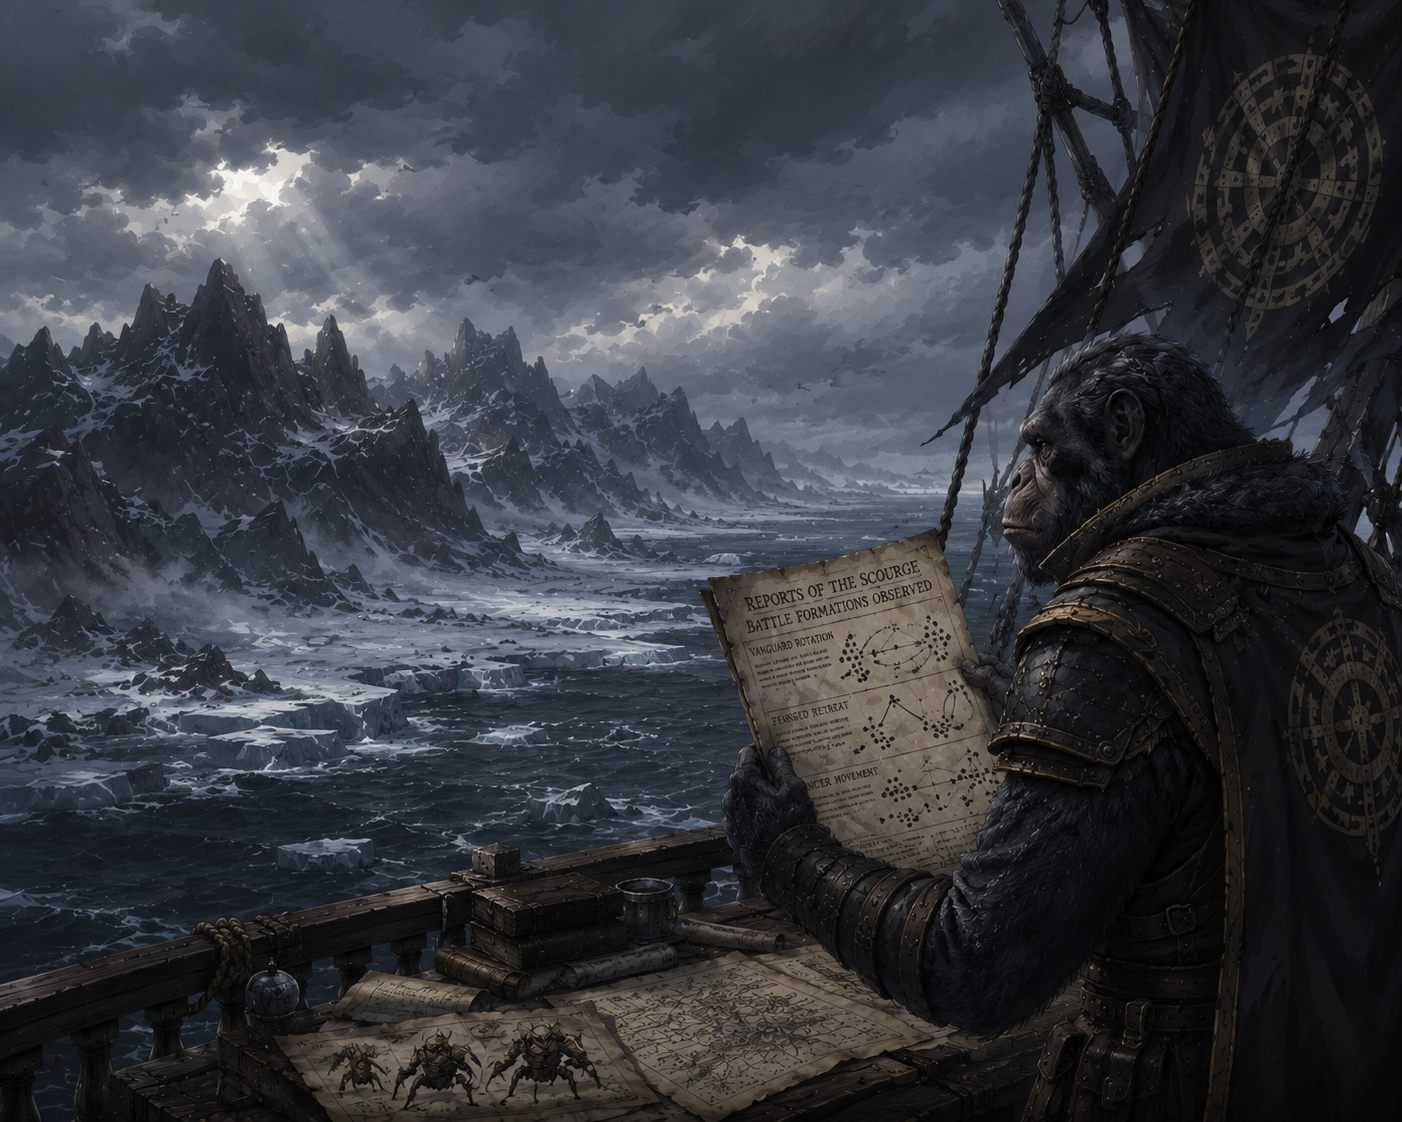
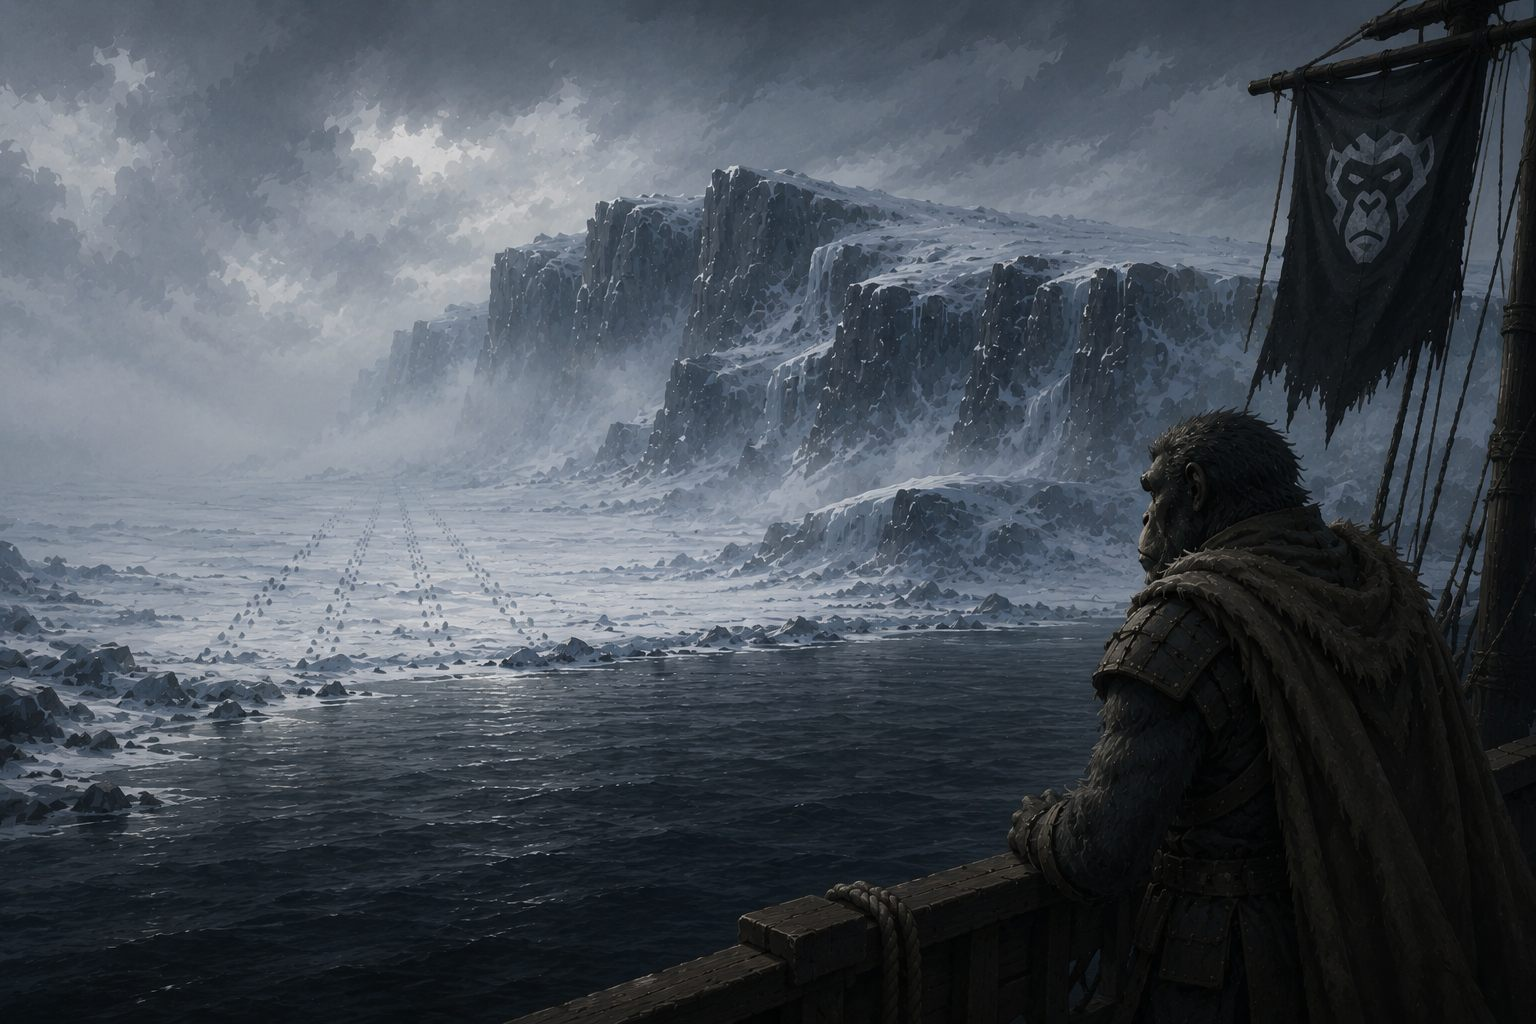
cohort I polished

diff --git a/content.js b/content.js
@@ -500,19 +500,25 @@ window.CONTENT = {
           code: "1.1",
           name: "Golden Empire",
           image: "images/factions/ge1.jpg",
-          epithet: "No caravan crosses the Garden without passing beneath a lion's shadow.",
+          epithet: "Every luxury in the Garden eventually finds its way to a lion's court.",
           meta: [
             ["KIND", "Feline (Lions)"],
             ["CREED", "Zaoist Founders"],
             ["TRAIT", "Deep social bonds; collective state strategy"]
           ],
-          paragraphs: [
-            { lead: true, text: "The Golden Empire sits at the heart of western civilization. It commands no single monopoly, yet quietly influences all three of the Garden's most valuable commodities: spice, silk, and venom. Lion kings rarely conquer for territory alone; they conquer for balance." },
-            "Their closest allies are the Celestial Empire, whose leopard merchants control many of the western trade routes, and Naga's Embrace, the serpent kingdom whose venom has become one of the most valuable substances in the Garden.",
-            "Centuries ago, relations between the Lions and the Lunar Guardians were cordial. That peace ended during the Serpent War, when the wolves launched a devastating campaign against Naga's Embrace. Victory would have handed the entire venom trade to the Lunar Guardians, upsetting the balance of power across the continent.",
-            "The Watcher's Dominions were too distant and too weakened to intervene. Mooncrest's armies could not reach the battlefield in time. The Lion Kings alone possessed both the strength and the political leverage to act. Invoking the gentle principles of Zaoism, the Golden Empire demanded an immediate ceasefire, declaring that the strong had a duty to protect the weak. Behind the noble words stood an unmistakable warning: should the war continue, the Lions themselves would march.",
-            "The wolves refused. What followed was a brutal four-year conflict remembered simply as <em>The Holy War of Protection</em>. Neither side emerged unscarred, but the Golden Empire ultimately prevailed.",
-            "Since then, Naga's Embrace has remained a loyal protectorate of the Lions, while the Golden Empire quietly safeguards the world's venom trade. To the east, the Celestial Empire remains both a trusted ally and an indispensable commercial partner, carrying spices from the Vanguards across the western kingdoms while together standing watch against their common rival: the Mooncrest Matriarchy."
+paragraphs: [
+            { lead: true, text: "The Golden Empire sits at the heart of western civilization. It commands no single monopoly, yet quietly influences all three of the Garden's most valuable commodities: spice, silk, and venom. Lion emperors rarely conquer for territory alone; they conquer for balance." },
+            "Their closest ally is the Celestial Empire, whose leopard merchants dominate many of the western trade routes. To the north lies Naga's Embrace, the great serpent kingdom whose venom has become one of the most valuable substances in the Garden. Though formally independent, the two realms have maintained unusually close relations for generations.",
+            "That relationship changed dramatically during the reign of Emperor Zaoren.",
+            "Only one Rain ago, the Emperor shocked the Garden by taking Lady Seshara, a noblewoman of Naga's Embrace, as his newest consort. The marriage ignited immediate controversy throughout the Empire. Marrying beyond one's creed is condemned across nearly every civilization, and Khamseen law traditionally demands that an outsider convert before such a union can be recognized. The imperial court refused to explain how the marriage had been sanctioned.",
+            "The Emperor's lion queens openly resented the decision. Noble houses questioned his judgment. Zaoist priests condemned the union in private sermons, while merchants feared the political instability it might invite. Although none dared challenge the Emperor directly, whispers spread throughout every province.",
+            "The rumors only intensified as Zaoren himself appeared to change. Courtiers spoke of an Emperor increasingly distant from affairs of state, arriving late to councils, staring silently through debates, and displaying an unfamiliar calm that many described as almost euphoric. No physician reported illness. No minister offered an explanation.",
+            "Then came the Wolf campaign against Naga's Embrace.",
+            "Invoking the sacred principles of Zaoism, Emperor Zaoren declared that the strong bore an absolute duty to protect the weak. He condemned the invasion as a violation of the natural balance and demanded an immediate withdrawal. When the Lunar Guardians refused, the Golden Empire marched to war.",
+            "The war endured four rains before Lion armies forced the wolves to retreat. Since then, Naga's Embrace has remained firmly within the Golden sphere of influence, preserving the world's venom trade while strengthening western commerce alongside the Celestial Empire.",
+            "Yet the war settled little beyond the battlefield.",
+            "Many across the Garden remain convinced that Emperor Zaoren secretly embraced Khamseen to legitimize his marriage. Others dismiss the accusation as Mooncrest propaganda intended to fracture the Zaoist world. The imperial court has never addressed the rumors, and the Emperor continues to preside over every Zaoist ceremony without exception.",
+            "Whether Zaoren's actions sprang from love, political calculation, religious conviction, or some combination of all three has become one of the Garden's greatest unanswered questions."
           ]
         },
         {
@@ -526,12 +532,15 @@ window.CONTENT = {
             ["CREED", "Zaoist Followers"],
             ["TRAIT", "Unbreakable pack discipline; flawless teamwork"]
           ],
-          paragraphs: [
-            { lead: true, text: "The Lunar Guardians occupy the harsh northwestern forests, far removed from the great merchant roads. Unlike the southern empires, they possess no vast spice fields, no silk workshops, and no lucrative caravan networks. Their strength has always been earned rather than inherited." },
-            "Every fortress, every village, and every victory has been built through relentless discipline, endurance, and an unwavering belief that no pack survives unless every member carries their burden.",
+           paragraphs: [
+            { lead: true, text: "The Lunar Guardians occupy the harsh northwestern forests, far removed from the great merchant roads. Unlike the southern empires, they possess no vast spice fields, no silk workshops, and no lucrative caravan networks. Their wealth comes instead from dense northern timber, rich iron deposits, fine furs, amber, and generations of disciplined craftsmanship. Every crate bound for the wealthy kingdoms of the south must first pass through Galeon Heights, whose harbors provide the Guardians their only reliable access to the Central Seas." },
+            "Every fortress, every village, and every victory has been built through relentless discipline, endurance, and an unwavering belief that no pack survives unless every member carries their burden. Among the wolves, rank carries privilege only because it carries greater responsibility. Nobles are expected to command, princes to serve, and every officer to lead from the front. A family name may earn respect, but only competence earns authority.",
+            "Their armies are regarded as the finest professional fighting force in the Garden. While other kingdoms celebrate heroic champions, the Guardians place their faith in drilled formations, disciplined logistics, engineering, battlefield signals, and an officer corps promoted through merit rather than birth. Individual glory means little beside collective victory.",
             "Their greatest humiliation remains the Serpent War. Generations have grown up believing victory was stolen from them, not by the Nagas they nearly defeated, but by Lion diplomacy backed with overwhelming military force. Restoring the honor lost in that war has quietly become a national obsession.",
-            "To the south lies their closest ally, Galeon Heights, whose mountain peoples rely upon the wolves to shield them from repeated incursions by the fanatical Ursa Theocracy. The Ursas themselves remain more nuisance than existential threat. Their borders are narrow, their campaigns reckless, and their charges rarely survive disciplined wolf formations. Nevertheless, constant vigilance has become second nature to the northern packs.",
-            "Every generation of wolves trains with one question lingering beneath the surface: <em>when the next great war comes... will the Lions still stand above us?</em>"
+            "To their south lie two very different neighbors. Naga's Embrace remains a bitter reminder of the Serpent War, while Galeon Heights stands as the Guardians' closest ally. Though small, the mountain kingdom controls the wolves' only dependable passage to the Central Seas. Protecting Galeon's mountain passes and ports is therefore more than an act of friendship—it is the lifeline of the northern economy.",
+            "Beyond Galeon, to the east, rises the fanatical Ursa Theocracy. The Ursas themselves remain more nuisance than existential threat. Their borders are narrow, their campaigns reckless, and their furious charges rarely survive disciplined wolf formations. Nevertheless, constant vigilance has become second nature to the northern packs.",
+            "Wolf courts are famously austere. Foreign ambassadors expecting gilded halls and extravagant feasts instead find plain timber chambers, quiet deliberation, and rulers who value restraint above spectacle. Displays of wealth are considered poor taste; unnecessary luxury is often viewed as evidence that one has forgotten the burdens carried by the pack.",
+            "Every cub is taught that the debt of the Serpent War has not been forgotten. Whether history is corrected through diplomacy, commerce, or conquest matters little. The Lions may possess the richer empire, but the Wolves remain convinced that the Garden has yet to witness their greatest victory."
           ]
         },
         {
@@ -945,22 +954,6 @@ window.CONTENT = {
           paragraphs: [
             { lead: true, text: "The colossal, sky-blotting locust swarms driving down the western corridor. They threaten to choke out the trade routes of the Steppe Guardians and devour the lush environments of the Giants Realm. They are met only by advanced, mass-barrage artillery and aerosolized contact poisons engineered to clog their breathing pores." }
           ]
-        },
-        {
-          slug: "silent-swarm",
-          code: "4.6",
-          name: "The Silent Swarm",
-          image: "images/factions/SilentSwarm1.jpg",
-          epithet: "The land is completely quiet, and it systematically consumes anyone who touches it.",
-          meta: [
-            ["KIND", "Unknown"],
-            ["CREED", "None Observed"],
-            ["TRAIT", "Total silence; no landing party has ever returned"]
-          ],
-          paragraphs: [
-            { lead: true, text: "Occupying the isolated, sub-polar landmass in the northwestern corner of the map, the Silent Swarm borders no living civilization. For generations, regional scholars dismissed this frozen, quiet expanse as a barren, dead territory. Maritime expeditions sent to map its rocky coastlines reported seeing absolutely no signs of life on the tundra—no cities, no hives, and no movement. Yet, a chilling rule has hardened among the regional navies: every single expedition that has ever dropped anchor and sent landing parties ashore has vanished without a single survivor or distress signal. The land is completely quiet, and it systematically consumes anyone who touches it." },
-            "For centuries, the Scourge fought as a mindless, disorganized wave of raw flesh and instinct. Recently, however, an unsettling rumor has begun whispering through the trench lines of the Eastern Frontier. A Khanstan Tiger lord managing an aerial watch and a Boarheart shield-commander holding a subterranean trench have separately reported an identical, chilling phenomenon: the incoming swarms are beginning to display basic battle formations. They no longer simply charge; they rotate vanguard units, feign retreats, and coordinate multi-flank pincer movements. Whether this is an accidental evolutionary spike or a sign that the latent minds within the chitin are finally figuring out how to direct their cohorts, no one knows. But on the frontline, the message is clear: <em>the bugs are starting to learn.</em>"
-          ]
         }
       ]
     },
@@ -972,20 +965,22 @@ window.CONTENT = {
       epithet: "Forgotten islands, silent engines, impossible beasts, and stories no kingdom agrees upon.",
       crest: "sig-bridge",
       rail: { label: "05. THE UNKNOWN", subtext: "Rumors & Relics" },
-      visual: { img: "images/factions/sh6.jpg", grad: "linear-gradient(170deg, #172420 0%, #0e1614 40%, #040606 100%)", tint: "rgba(40,80,60,.20)", glow: "#63ab87", fx: "rain" },
+      visual: { img: "images/factions/BeyondTheMaps1.jpg", grad: "linear-gradient(170deg, #172420 0%, #0e1614 40%, #040606 100%)", tint: "rgba(40,80,60,.20)", glow: "#63ab87", fx: "rain" },
       factions: [
         {
-          slug: "shadows-teeth",
-          code: "8.2",
-          name: "Shadow's Teeth",
-          image: "images/factions/ShadowsTeeth1.jpg",
-          meta: [
-            ["KIND", "Rodents (Rats, Squirrels, Porcupines)"],
-            ["CREED", "Permutism Followers"],
-            ["TRAIT", "Isolated, rumored sanctuary of the unchained"]
-          ],
+          slug: "silent-swarm",
+          code: "4.6",
+          name: "The Silent Swarm",
+          image: "images/factions/SilentSwarm1.jpg",
+          epithet: "The land is completely quiet, and it systematically consumes anyone who touches it.",
           paragraphs: [
-            { lead: true, text: "Whispered among rats on the long quarry roads as a free kingdom past the edge of the maps. Geographically verified as a small, highly defensible peninsula at the bottom center of the western continent, it serves as the ultimate beacon for the unchained, using the fluid principles of Permutism to survive away from the horns and matriarchs." }
+            { lead: true, text: "Far beyond the northwestern sea lies an isolated, sub-polar landmass that appears, from every known chart, to be completely barren. No smoke has ever been seen rising above its frozen shores. No villages, no ruins, no movement. Even the seabirds refuse to nest along its cliffs. Yet every maritime kingdom preserves the same warning." },
+            "Do not land.",
+            "For generations, captains dismissed the stories as superstition and sent survey parties ashore to chart the empty coastlines. None returned. No distress signals were raised. No bodies were recovered. Ships waiting at anchor reported only an impossible silence... followed, on certain nights, by the faint sound of countless synchronized footsteps somewhere beyond the fog. Others heard nothing at all. The accounts disagree on nearly everything except one fact.",
+            "No landing party has ever come back.",
+            "No kingdom claims the island. No priesthood agrees on what dwells there. Most maps simply leave the interior blank, naming the place only as <em>The Silent Swarm</em>—not because anyone has seen a swarm, but because something unseen moves across that frozen land with the order of one.",
+            "Some sailors insist the footsteps are only ice settling beneath the cold. The old captains never argue. They simply turn the ship around.",
+            "Do not land."
           ]
         }
       ]

diff --git a/index.html b/index.html
@@ -485,12 +485,15 @@
         <div class="scrollcue reveal d3"><span class="line"></span> ${wm.scrollcue}</div>
       </section>` : '';
     const sections = C.regions.map((r, i) => {
-      const cards = r.factions.map(f => `
+      const cards = r.factions.map(f => {
+        const kind = (f.meta || []).slice(0, 2).map(m => m[1]).join('<br>');
+        return `
         <a class="fac-card" href="#faction/${f.slug}">
           <span class="code">${f.code ? f.code + ' · ' : ''}FACTION FILE</span>
           <h3>${f.name} <span class="arrow">→</span></h3>
-          <span class="kind">${f.meta[0][1]}<br>${f.meta[1][1]}</span>
-        </a>`).join('');
+          ${kind ? `<span class="kind">${kind}</span>` : ''}
+        </a>`;
+      }).join('');
       return `
         <section class="fac" id="${r.id}" data-phase="${i + 1 + off}" aria-label="${r.title}">
           <svg class="crest"><use href="#${r.crest}"/></svg>